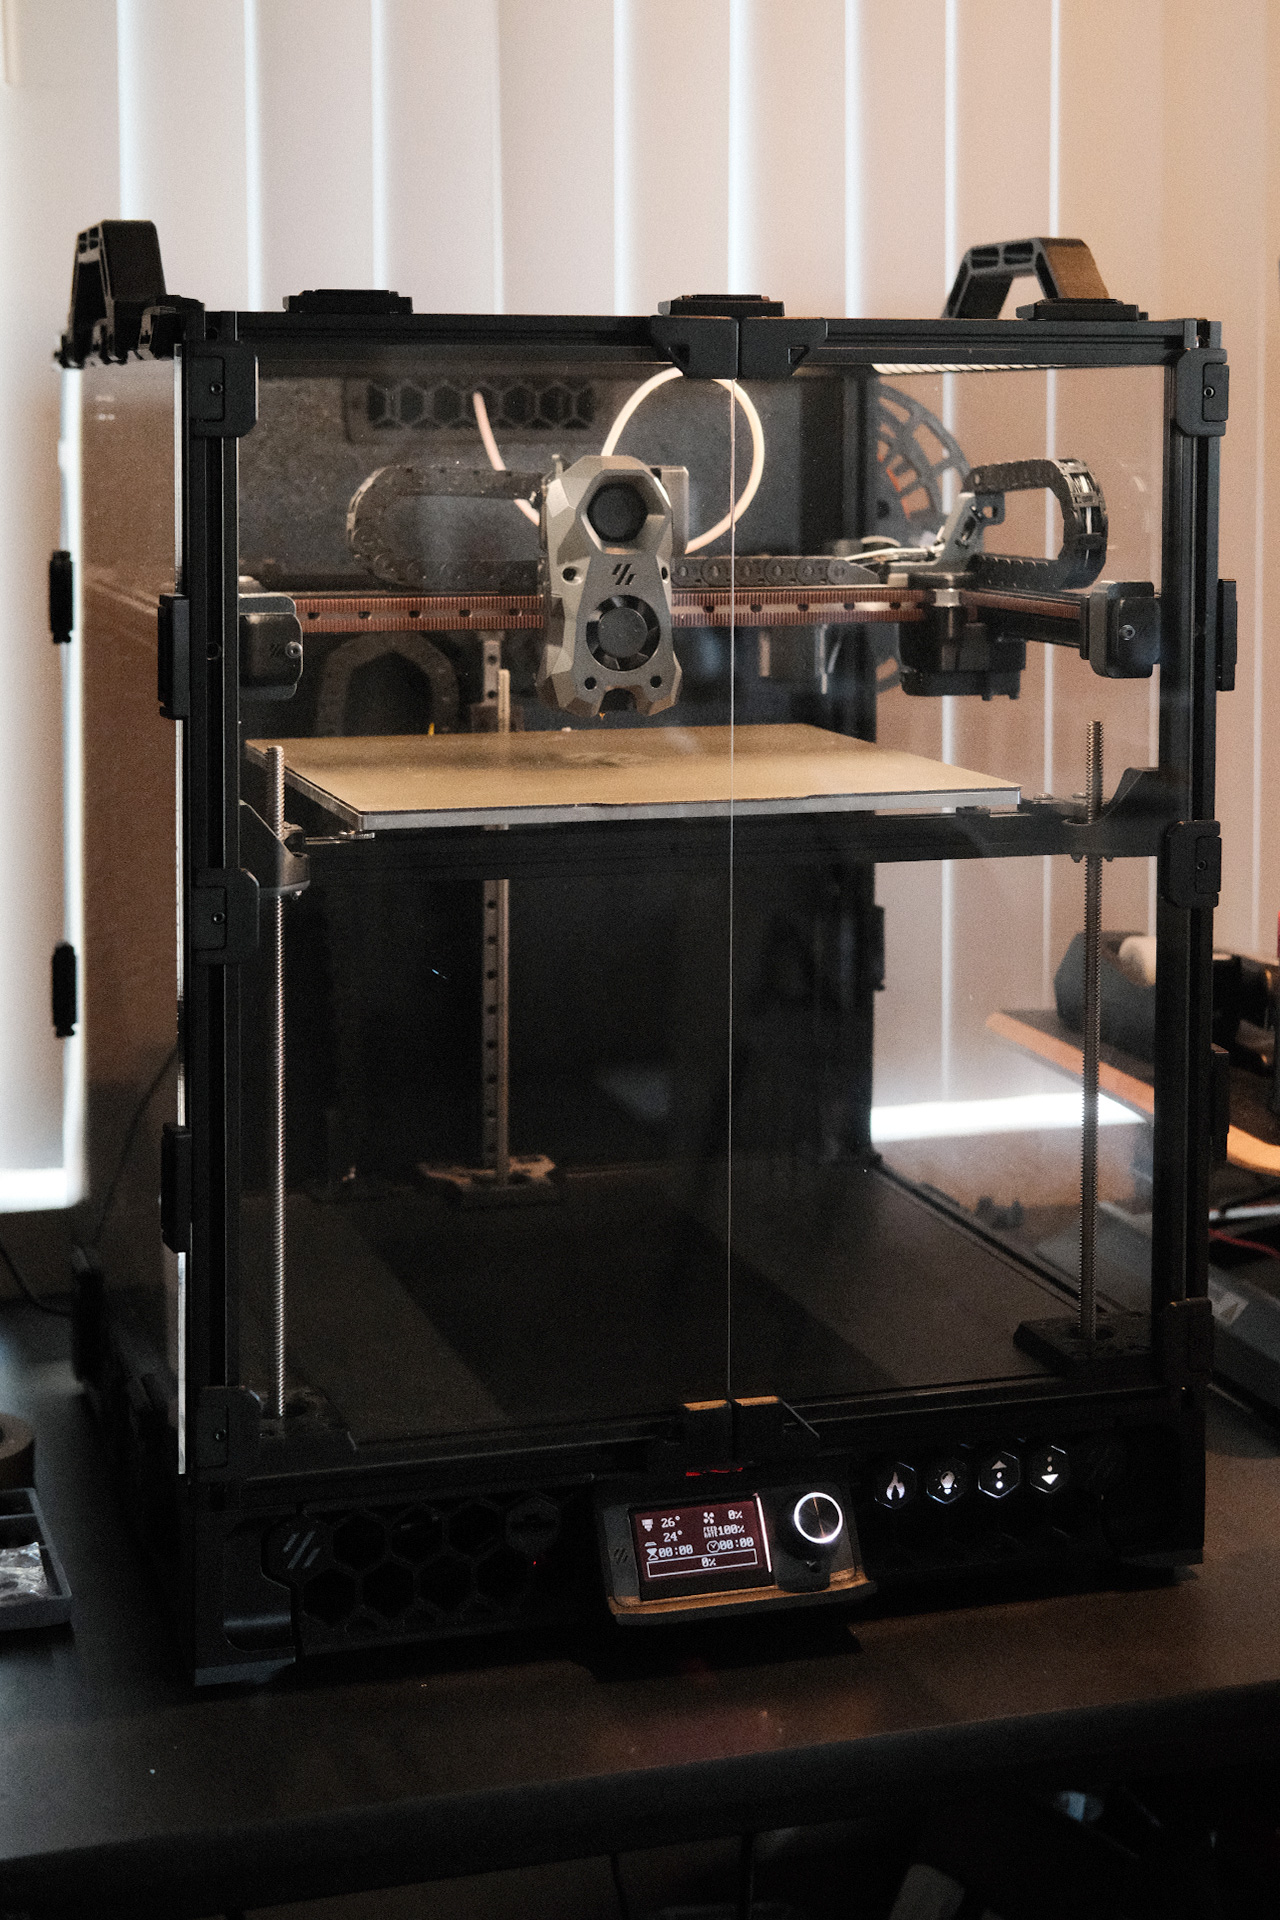
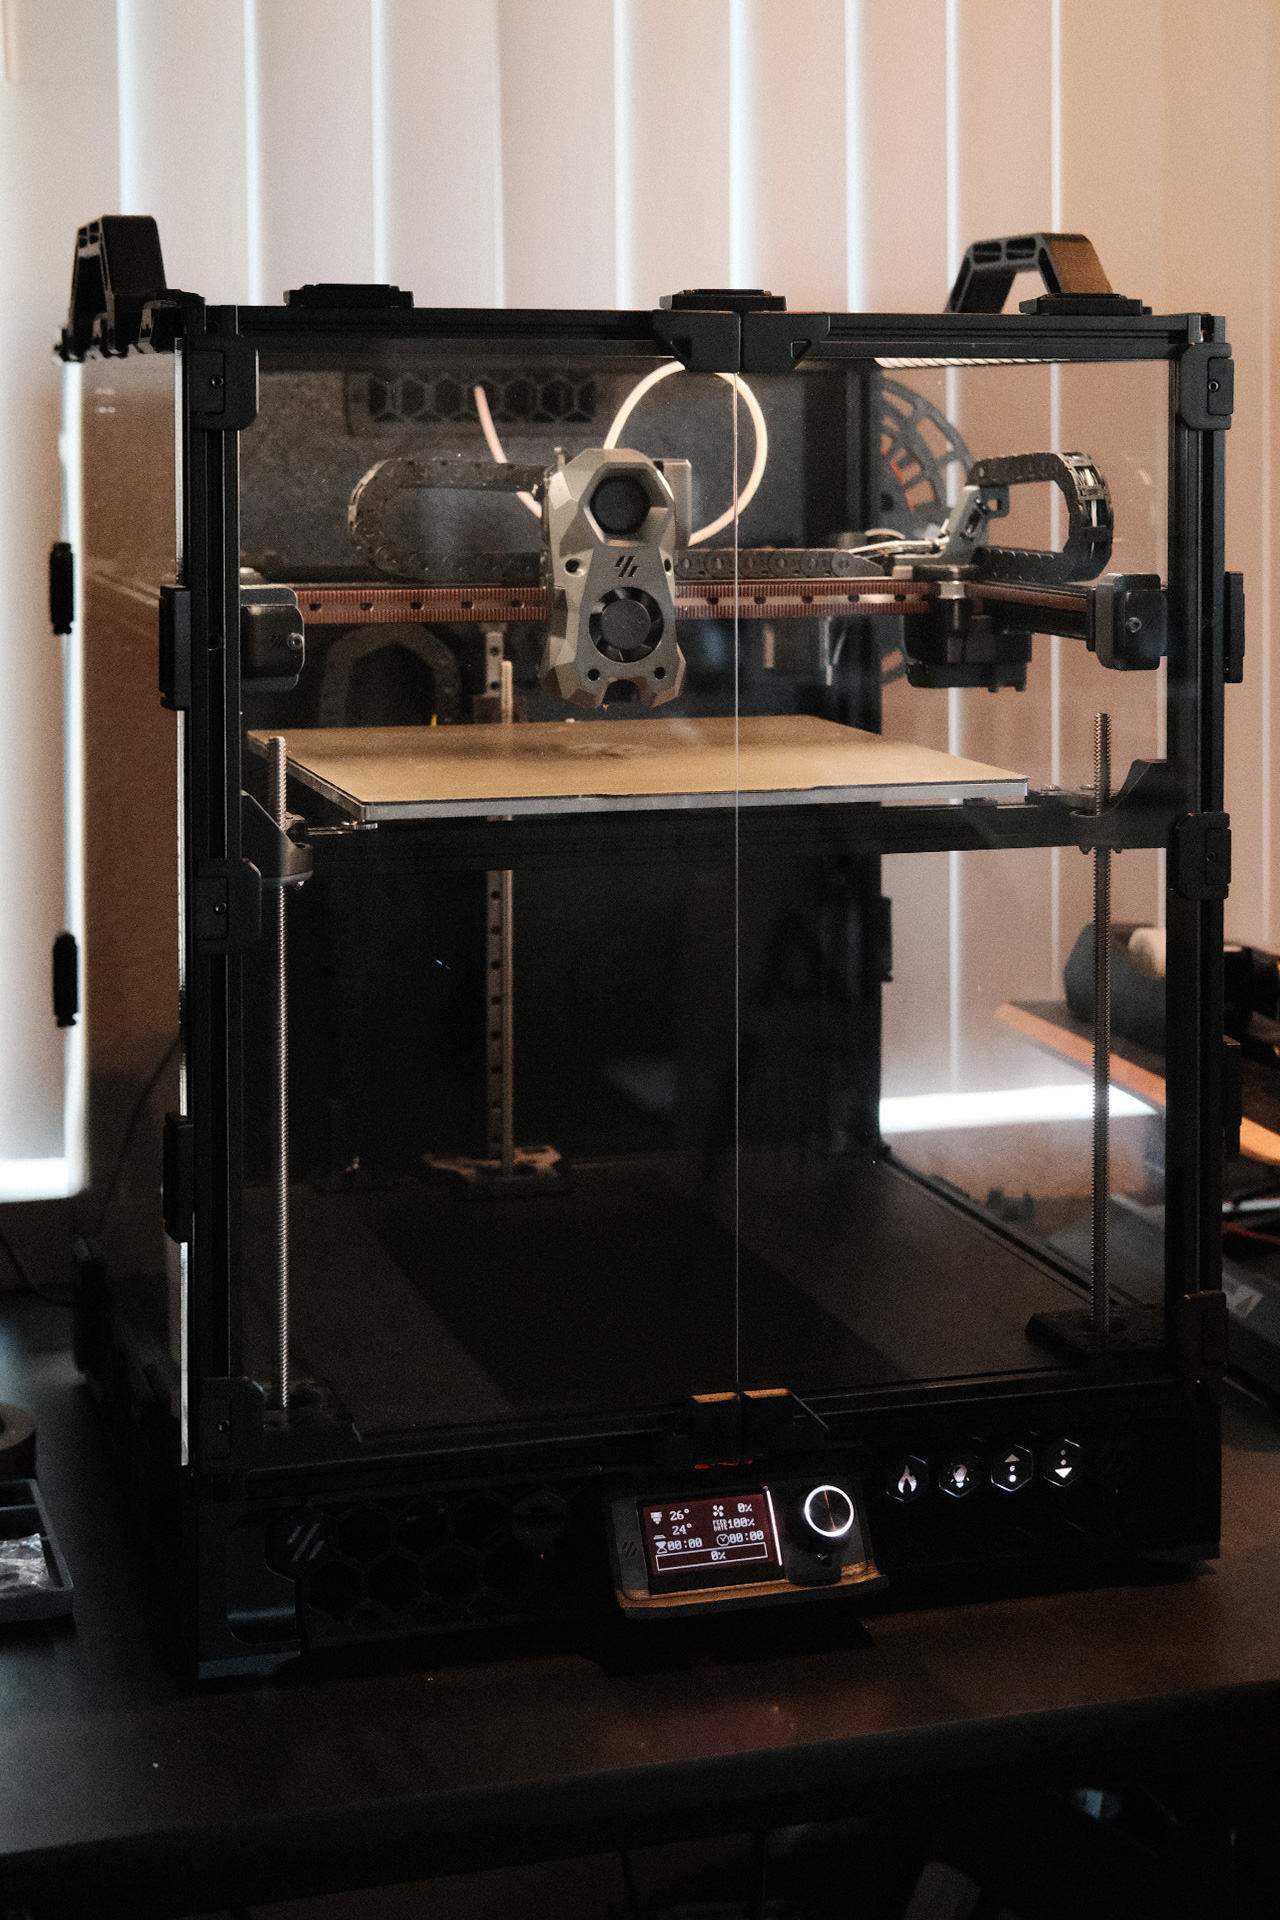
Image edit, new tweaks.

diff --git a/docs/collections/3d-printing/voron-trident.md b/docs/collections/3d-printing/voron-trident.md
@@ -32,11 +32,12 @@ nav_order: 1
 *   [Serial Request](https://www.reddit.com/r/voroncorexy/comments/sdhsjg/voron_trident_300mm_serial_request_le0n2959/)
 
 ### Bill of Materials & Supplies
-*   [Bill of Materials & Costs](https://docs.google.com/spreadsheets/d/19nlv9ndFdrLKIFwBDWHhvT5E2p-6kONis_83c0GkSzI/edit?usp=sharing)
+*   [BOM & Costs](https://docs.google.com/spreadsheets/d/19nlv9ndFdrLKIFwBDWHhvT5E2p-6kONis_83c0GkSzI/edit?usp=sharing)
 *   Main color: [MatterHackers Build Series Black](https://www.matterhackers.com/store/l/175mm-abs-filament-black-1-kg/sk/MWVCRU99)
 *   Accent color: [KVP Graphite](https://www.villageplastics.com/product/abs/)
+*   [OpenBuilds Slot Covers](https://openbuildspartstore.com/slot-cover-panel-holder/)
 
-### Mods Installed
+### Mods & Tweaks
 *   [Funny Pack](https://github.com/thiagolocatelli/Voron/tree/master/Mods/funny_pack) - Based on the [Fanny Pack](https://github.com/oab1/VoronMods/tree/main/v2.2%20Recirculating%20Filter) which is in turn based on the [Nevermore](https://github.com/nevermore3d), this exhaust filter uses dual 5015 fans to circulate air through [activated carbon pellets](https://envirosupply.net/products/4mm-pellet-virgin-coal-activated-carbon-charcoal-for-vapor-filtration-1-lb-bag). I ended up needing to print smaller mesh inserts to prevent pellets from falling out of the basket.
 *   [Panel Lockers](https://github.com/v6cl/My-Voron2.4-Customs/tree/main/Panel_Locker) - Print-in-place, works with 1mm-foam-lined side panels, and has good clamping force. Has two drawbacks; (1) one face of the model prints at an angle and catches light badly, and (2) you can't put two lockers on adjacent panels in the same location. Considering replacing them with [this design](https://github.com/VoronDesign/VoronUsers/tree/master/printer_mods/richardjm/snap-latch-2020), that uses filament as a hinge, or [Yeri's Magnetic Clips](https://github.com/Yeriwyn/VoronUsers/tree/V1-and-V2-panels/printer_mods/yeri/V1_V2_Trident_Magnetic_Panels/STL/Trident/300).
 *   [Sturdy Handles](https://github.com/VoronDesign/VoronUsers/tree/master/printer_mods/jeoje/Sturdy_Handles) - They mount well and do not interfere with panel removal, but the extrusions have a tendency to rotate. Need to remember to periodically retighten the frame.
@@ -44,6 +45,7 @@ nav_order: 1
 *   [StealthBurner Beta](https://github.com/VoronDesign/Voron-Afterburner/tree/sb-beta/STLs/Stealthburner) - Using a beta revision on top of the new ClockWork1 printed parts. And using Hartk's PCB cover to contain the wiring though I do not have a toolhead PCB.
 *   [Eddie's LED Bar Clip](https://github.com/VoronDesign/VoronUsers/tree/master/printer_mods/eddie/LED_Bar_Clip) - They're nice! Easy to print, clips directly to 2020 extrusions, and have baffles to shield light from eyes. I did not extend the LED mounts fully from front to back, and chose to leave some room. Just in case I need space to mount a camera in the future.
 *   [Meteyou's GCode Buttons](https://github.com/VoronDesign/VoronUsers/tree/master/legacy_printers/printer_mods/meteyou/gcode_buttons) - This version of skirt buttons uses mechanical switches for satisfying tactility. I also embedded 2x3x4 LEDs into the switches for some backlighting, and did a filament swap for the button covers.
+*  [Killw2k's LCD Display Tweak - Remaining Time](https://www.reddit.com/r/VORONDesign/comments/rv9oxn/lcd_status_screen_tweak/) - This config modification moves the progress bar to the 4th row to make room for remaining time and total time, neither of which are shown by default.
 
 ### Mods to Consider
 *   GitHub - [Yeri's Magnetic Panels](https://github.com/Yeriwyn/VoronUsers/tree/V1-and-V2-panels/printer_mods/yeri/V1_V2_Trident_Magnetic_Panels/STL/Trident/300)
